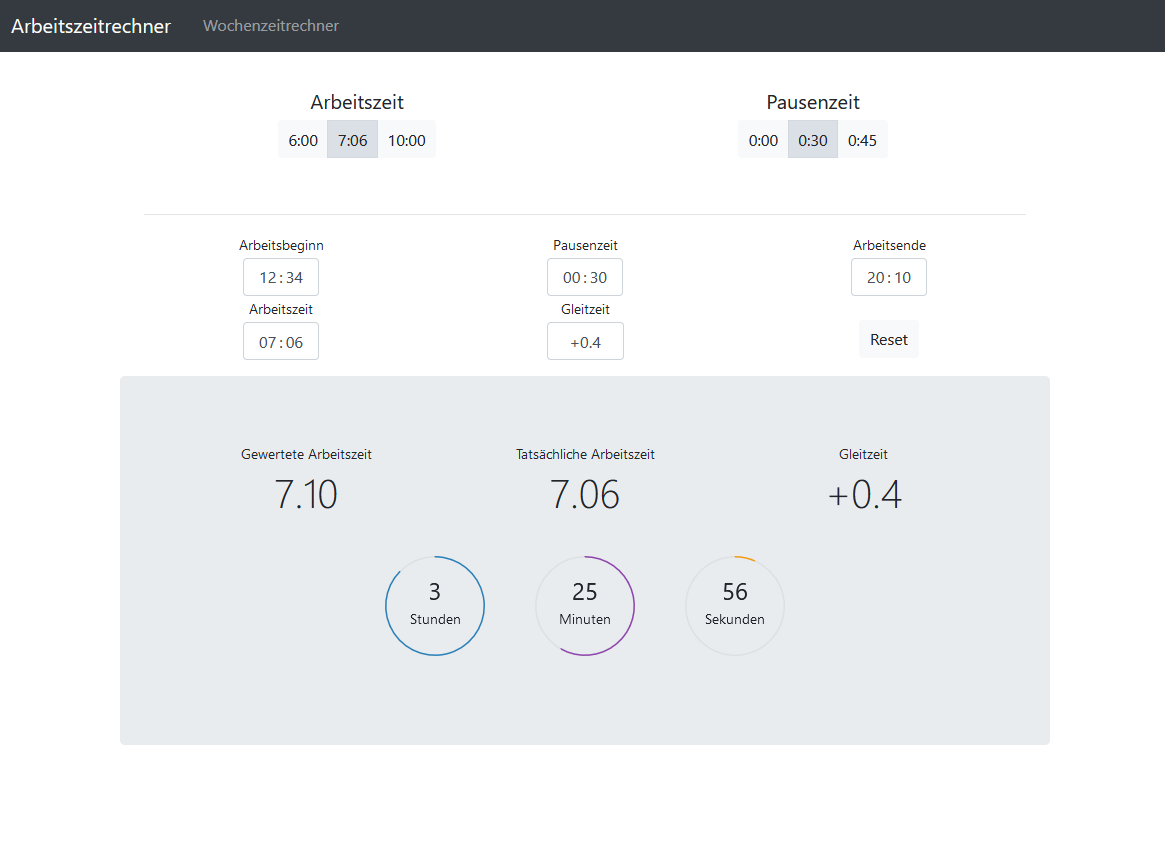
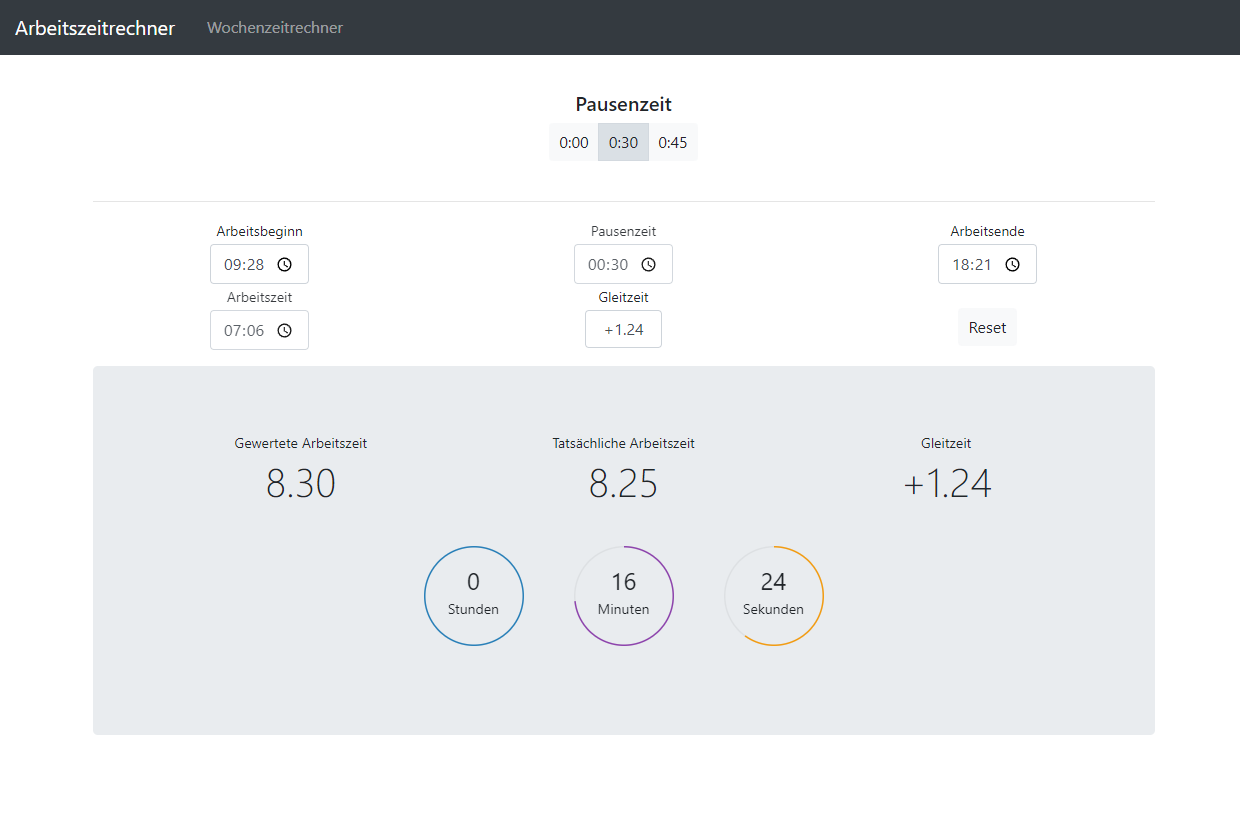
[#01] fixed

diff --git a/js/dzr.js b/js/dzr.js
@@ -208,9 +208,9 @@ $(document).ready(function () {
     });
 
     $("#pause").change(function () {
-        calculate();
         setGleitzeit();
         setIstTime();
+        calculate();
         setCountdown();
     });
 
@@ -268,20 +268,6 @@ $(document).ready(function () {
 
         // Berechnet verbleibende Zeit in Sekunden (für den Countdown)
         var remainingSeconds = hoursToEnd * 60 * 60 + minutesToEnd * 60 + secondsToEnd;
-
-        // console.log(".now() + remaining: " + remainingSeconds);
-
-        /*$("#clock").countdown(remainingMilliseconds, {
-            elapse: true
-        }).on("update.countdown", function (event) {
-            var $this = $(this);
-            if (event.elapsed) {
-                $this.html(event.strftime('<span>%H:%M:%S</span>'));
-            } else {
-                $this.html(event.strftime('<span>%H:%M:%S</span>'));
-            }
-        });*/
-
 
         if ($('.ClassyCountdown-wrapper').length > 0) {
             //console.log("IF");

diff --git a/index.html b/index.html
@@ -7,8 +7,9 @@
     <meta name="description" content="Arbeitszeitrechner">
     <link rel="icon" href="favicon.ico">
 	
-	<meta name="Version" content="2.4.1">
+	<meta name="Version" content="2.4.2">
 	<meta name="VersionName" content="Tabbing und Wochengleitzeit">
+    <meta name="GitHub" content="https://github.com/LukasDano/arbeitszeitrechner">
 
     <title>Arbeitszeitrechner</title>
 

diff --git a/README.md b/README.md
@@ -1,7 +1,8 @@
 # Arbeitszeitrechner #
 
 Eine einfache Anwendung, bei der man den Arbeitsbeginn einträgt und automatisch der Feierabendbeginn ausgerechnet wird.
-Jetzt einfach die [aktulle Version](https://raw.githack.com/LukasDano/arbeitszeitrechner/main/index.html) ausprobieren.
+Jetzt einfach die [aktuelle Version](https://raw.githack.com/LukasDano/arbeitszeitrechner/main/index.html) ausprobieren.
+Hier kann man die aktuelle [Testversion](https://raw.githack.com/LukasDano/arbeitszeitrechner/bugfix/index.html) einsehen.
 
 Diese Anwendung wurde von einer Anderen inspiriert, aber eigenständig erweitert/verändert.
 Hier geht es zum [Original.](https://github.com/iC0RE/arbeitszeitrechner)

diff --git a/ChangeLog.md b/ChangeLog.md
@@ -45,3 +45,9 @@
 - Bugfix: Wenn man 6 Stunden Arbeitszeit ausgewählt hat, wurde mit jedem neuladen der Seite die Arbeitszeit jeweils um eine Stunde reduziert
 	Wenn man 10 Stunden ausgewählt hat, wurde jeweils um 1 Stunde erhöht
 - Bugfix: Gleitzeitfeld kann jetzt nicht mehr leer sein
+
+## v2.4.2
+- Man kann jetzt nicht mehr die Arbeitszeit selbständig auswählen
+	- hat mehrere Probleme verursacht
+	- war fachlich/praktisch keine sinnvolle Funktion
+- Bugfix: wenn man so arbeitet, dass man mehr oder weniger Pause braucht wird jetzt die richtige Zeit angegeben
